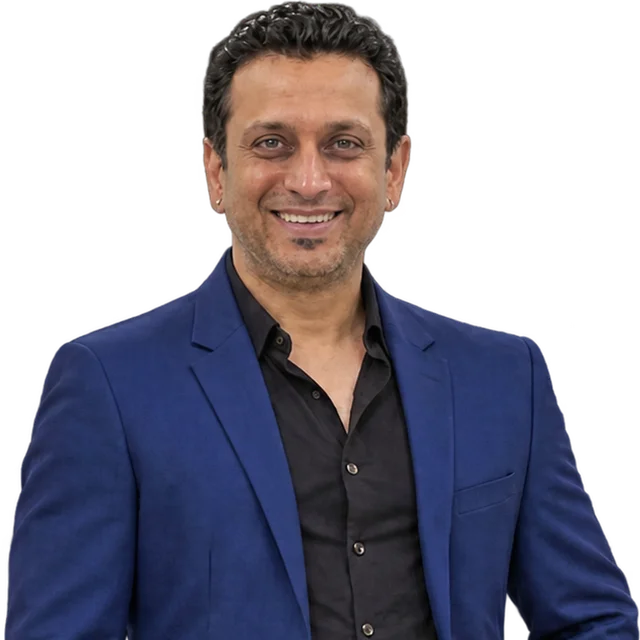
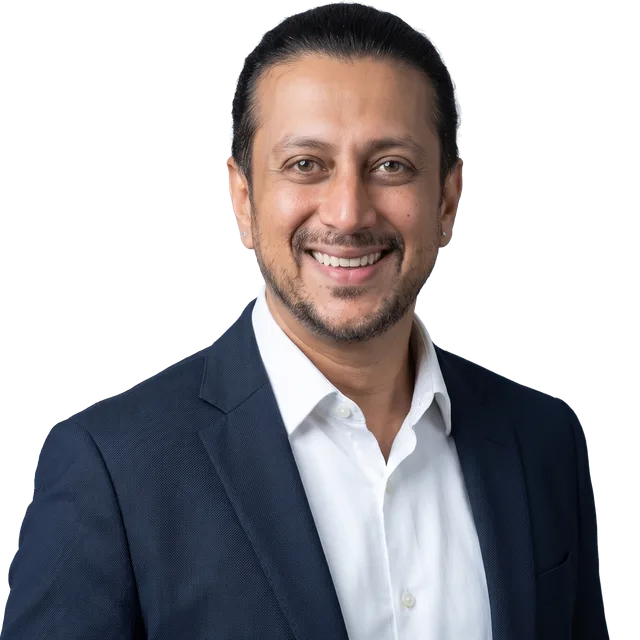
fix(campaign): re:Invent dinner moved to Thu Dec 3, event-team wording, new Suraj photo; smaller blog feature image

diff --git a/src/app/campaign/2026/AWS/reinvent/page.tsx b/src/app/campaign/2026/AWS/reinvent/page.tsx
@@ -23,7 +23,7 @@ import BookMeeting from "./BookMeeting";
  * Standalone: the /campaign layout hides the site header/footer and sets noindex.
  */
 const SHARE_TITLE = "Comprinno at AWS re:Invent 2026";
-const SHARE_DESC = "Meet the Comprinno team in Las Vegas, Nov 30 to Dec 4, and request your seat at our CXO & partner dinner on Wednesday, December 2.";
+const SHARE_DESC = "Meet the Comprinno team in Las Vegas, Nov 30 to Dec 4, and request your seat at our CXO & partner dinner on Thursday, December 3.";
 // link previews (LinkedIn, WhatsApp, Slack, X) use this page’s own title, text and opengraph-image.jpg, not the site defaults
 export const metadata: Metadata = {
   title: SHARE_TITLE,
@@ -33,7 +33,7 @@ export const metadata: Metadata = {
   twitter: { card: "summary_large_image", title: SHARE_TITLE, description: SHARE_DESC },
 };
 
-const DINNER = "2026-12-02T19:00:00-08:00";
+const DINNER = "2026-12-03T19:00:00-08:00";
 
 const W = ({ children, className = "" }: { children: ReactNode; className?: string }) => <div className={`mx-auto w-full max-w-6xl px-4 sm:px-6 lg:px-8 ${className}`}>{children}</div>;
 // site section label (same Eyebrow as comprinno.net and the AWS campaign page)
@@ -49,7 +49,7 @@ const Btn = ({ href, children, ghost = false, className = "" }: { href: string; 
 );
 const field = "mt-1 block w-full border border-[#c8d5e8] bg-white px-3 py-2.5 text-sm focus:border-[#006bc9] focus:outline-none";
 
-const steps = ["Register in under a minute.", "Await approval: All registrations are subject to host approval.", "Get your confirmation: Once your registration is approved, your pass and venue details will arrive by email."];
+const steps = ["Register in under a minute.", "Await approval: All registrations are subject to approval by our event team.", "Get your confirmation: Once your registration is approved, your pass and venue details will arrive by email."];
 // LinkedIn posts to show: paste each post’s embed URL (LinkedIn post menu > Embed this post), e.g.
 // "https://www.linkedin.com/embed/feed/update/urn:li:share:1234567890". Until then, placeholder cards show.
 const linkedinEmbeds: string[] = [];
@@ -94,10 +94,10 @@ export default function ReInvent2026() {
             {/* one label, in the site’s sky hue (the auto hue for this text came out pink) */}
             <span className="inline-flex max-w-full [&_.eyebrow]:max-w-full [&_.eyebrow]:whitespace-normal [&_.eyebrow-text]:!whitespace-normal [&_.eyebrow-text]:!overflow-visible [&_.eyebrow-text]:leading-[1.6] [&_.eyebrow]:!text-left [&_.eyebrow-text]:!text-left "><Eyebrow><span className="block sm:inline">AWS re:Invent 2026<span className="hidden sm:inline"> · </span></span><span className="hidden sm:inline">Las Vegas, NV · Nov 30 to Dec 4</span></Eyebrow></span>
             <h1 className="mt-6 text-[clamp(2.4rem,6vw,4rem)] font-light leading-[1.02] tracking-tight">Comprinno at <strong className="block font-bold"><span className="sweep">re:Invent 2026</span></strong></h1>
-            <p className="mt-5 max-w-lg leading-relaxed text-neutral-600">Turn enterprise AI into a lasting competitive advantage. Meet our team between sessions or join us on Wednesday, December 2, for Indian food and great conversation.</p>
+            <p className="mt-5 max-w-lg leading-relaxed text-neutral-600">Turn enterprise AI into a lasting competitive advantage. Meet our team between sessions or join us on Thursday, December 3, for Indian food and great conversation.</p>
             <HeroEmail inputClass={field} />
             <div className="mt-8 max-w-lg">
-              <div className="mb-2 flex flex-wrap items-center justify-between gap-x-3 gap-y-2"><Mono className="whitespace-nowrap !text-[#006bc9]">● Our dinner starts in</Mono><span className="inline-flex items-center gap-1.5 whitespace-nowrap bg-[#e3f0fc] px-2.5 py-1 font-mono text-[.62rem] font-semibold uppercase tracking-[.08em] text-[#006bc9]"><svg viewBox="0 0 24 24" className="h-3.5 w-3.5" fill="none" stroke="currentColor" strokeWidth="2" aria-hidden="true"><rect x="3" y="5" width="18" height="16" /><path d="M3 10h18M8 3v4M16 3v4" /></svg>Wed, Dec 2 · 7:00 PM PST</span></div>
+              <div className="mb-2 flex flex-wrap items-center justify-between gap-x-3 gap-y-2"><Mono className="whitespace-nowrap !text-[#006bc9]">● Our dinner starts in</Mono><span className="inline-flex items-center gap-1.5 whitespace-nowrap bg-[#e3f0fc] px-2.5 py-1 font-mono text-[.62rem] font-semibold uppercase tracking-[.08em] text-[#006bc9]"><svg viewBox="0 0 24 24" className="h-3.5 w-3.5" fill="none" stroke="currentColor" strokeWidth="2" aria-hidden="true"><rect x="3" y="5" width="18" height="16" /><path d="M3 10h18M8 3v4M16 3v4" /></svg>Thu, Dec 3 · 7:00 PM PST</span></div>
               <Countdown to={DINNER} />
             </div>
           </div>
@@ -126,7 +126,7 @@ export default function ReInvent2026() {
           <div className="flex flex-col gap-6 lg:flex-row lg:items-end lg:justify-between">
             <div>
               {/* live indicator sits with the label, not floating above the button */}
-              <div className="flex flex-wrap items-center gap-3"><Tag>Live from Las Vegas</Tag><Mono className="!text-[#006bc9]">● Live · updated 14:20</Mono></div>
+              <div className="flex flex-wrap items-center gap-3"><Tag>Live from Las Vegas</Tag></div>
               <h2 className="mt-5 text-[clamp(1.8rem,4vw,2.6rem)] font-light leading-tight tracking-tight">Follow our week <strong className="font-bold">as it happens.</strong></h2>
               <p className="mt-3 text-neutral-600">Photos, takeaways and moments from re:Invent, shared on LinkedIn by Comprinno and our team.</p>
             </div>
@@ -196,7 +196,7 @@ export default function ReInvent2026() {
             ))}
             {/* 8th tile completes the grid and turns the section into a call to action */}
             <a href="#register" className="group flex flex-col justify-between bg-[#0a134b] p-4 text-white transition-colors hover:bg-[#141e5c] sm:p-6">
-              <Mono className="!text-[#ffbb00]">Wed, Dec 2 · 7:00 PM PST</Mono>
+              <Mono className="!text-[#ffbb00]">Thu, Dec 3 · 7:00 PM PST</Mono>
               <div className="mt-10">
                 <p className="text-xl font-light leading-tight sm:text-2xl">Meet them <strong className="font-semibold">over dinner.</strong></p>
                 <p className="mt-3 text-xs text-neutral-400 sm:text-sm">A private CXO &amp; partner evening, just off the Strip. Seats are limited.</p>
@@ -214,7 +214,7 @@ export default function ReInvent2026() {
         <W className="grid gap-10 py-16 lg:grid-cols-[1fr_1.1fr] lg:py-20">
           <div>
             <Tag>Register</Tag>
-            <h2 className="mt-5 text-[clamp(1.8rem,4vw,2.6rem)] font-light leading-tight tracking-tight">Request your seat. <strong className="font-bold">Our hosts will confirm your registration.</strong></h2>
+            <h2 className="mt-5 text-[clamp(1.8rem,4vw,2.6rem)] font-light leading-tight tracking-tight">Request your seat. <strong className="font-bold">Our event team will confirm your registration.</strong></h2>
             <ol className="mt-6 space-y-3">
               {steps.map((s, i) => (
                 <li key={s} className="flex items-start gap-3 text-sm text-neutral-700"><span className="flex h-6 w-6 shrink-0 items-center justify-center bg-[#006bc9] font-mono text-xs text-white">{i + 1}</span>{s}</li>
@@ -236,7 +236,7 @@ export default function ReInvent2026() {
         <section className="cta-full">
           <div className="cta-wave" aria-hidden="true"><LineWave /></div>
           <W className="relative py-16 text-center sm:py-24">
-            <p className="inline-flex items-center gap-2 border border-white/30 bg-white/10 px-3 py-1.5 font-mono text-[.68rem] uppercase tracking-[.12em] text-white"><span className="h-1.5 w-1.5 bg-[#ffbb00]" aria-hidden="true" />Wed, Dec 2 · Las Vegas · Seats are limited</p>
+            <p className="inline-flex items-center gap-2 border border-white/30 bg-white/10 px-3 py-1.5 font-mono text-[.68rem] uppercase tracking-[.12em] text-white"><span className="h-1.5 w-1.5 bg-[#ffbb00]" aria-hidden="true" />Thu, Dec 3 · Las Vegas · Seats are limited</p>
             <h2 className="mt-4 text-[clamp(2rem,5vw,3.2rem)] font-light tracking-tight">See you in <strong className="font-semibold">Las Vegas.</strong></h2>
             <p className="mt-3 text-white/70">Seats go to registered guests only.</p>
             <div className="mx-auto mt-8 grid max-w-sm gap-3 sm:flex sm:max-w-none sm:justify-center">

diff --git a/src/app/campaign/2026/AWS/reinvent/RegisterForm.tsx b/src/app/campaign/2026/AWS/reinvent/RegisterForm.tsx
@@ -89,12 +89,12 @@ export default function RegisterForm() {
           </span>
           <div>
             <p className="text-base font-semibold text-[#1c1c1c]">Request received</p>
-            <p className="text-sm text-neutral-600">Thanks. Your seat request is with our hosts.</p>
+            <p className="text-sm text-neutral-600">Thanks. Your seat request is with our event team.</p>
           </div>
         </div>
         <p className="mt-5 font-mono text-[.6rem] uppercase tracking-[.12em] text-[#006bc9]">What happens next</p>
         <ol className="mt-2 space-y-2.5 text-sm text-[#3d3d3d]">
-          <li className="flex gap-2.5"><span className="flex h-5 w-5 shrink-0 items-center justify-center bg-[#006bc9] font-mono text-[.65rem] text-white">1</span>Our hosts review your request. Every registration is subject to approval.</li>
+          <li className="flex gap-2.5"><span className="flex h-5 w-5 shrink-0 items-center justify-center bg-[#006bc9] font-mono text-[.65rem] text-white">1</span>Our event team reviews your request. Every registration is subject to approval.</li>
           <li className="flex gap-2.5"><span className="flex h-5 w-5 shrink-0 items-center justify-center bg-[#006bc9] font-mono text-[.65rem] text-white">2</span>Once approved, we’ll email your pass and the venue details.</li>
         </ol>
       </div>

diff --git a/src/app/resources/blog/page.tsx b/src/app/resources/blog/page.tsx
@@ -48,7 +48,7 @@ export default function BlogPage() {
             <div className="grid gap-6 lg:grid-cols-[1.35fr_1fr] lg:gap-8">
               {/* Latest: image-led feature card */}
               <Link href={`/resources/blog/${latest.slug}`} className="card group flex flex-col !p-0">
-                <ArtTile art={{ slug: latest.slug, title: latest.title, about: latest.topic }} fill className="aspect-[16/7] !border-0 !border-b !border-line" />
+                <ArtTile art={{ slug: latest.slug, title: latest.title, about: latest.topic }} contain className="aspect-[16/7] overflow-hidden [&>svg]:!h-full [&>svg]:!w-auto [&>svg]:!scale-[0.9] !border-0 !border-b !border-line" />
                 <div className="flex flex-1 flex-col p-6 sm:p-7">
                   <div className="flex items-center gap-3">
                     <span className="font-mono text-[0.68rem] uppercase tracking-widest text-[#006bc9]">Latest</span>
